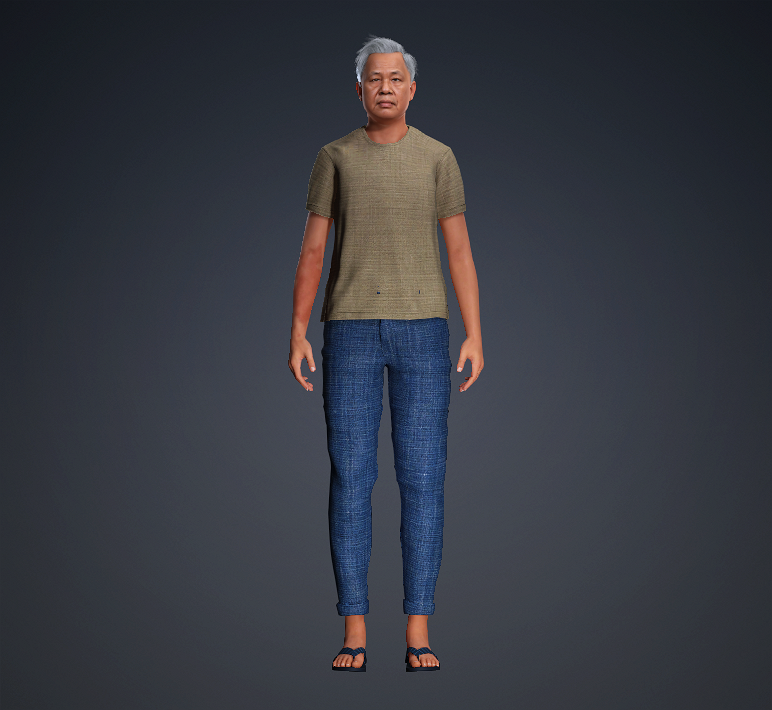
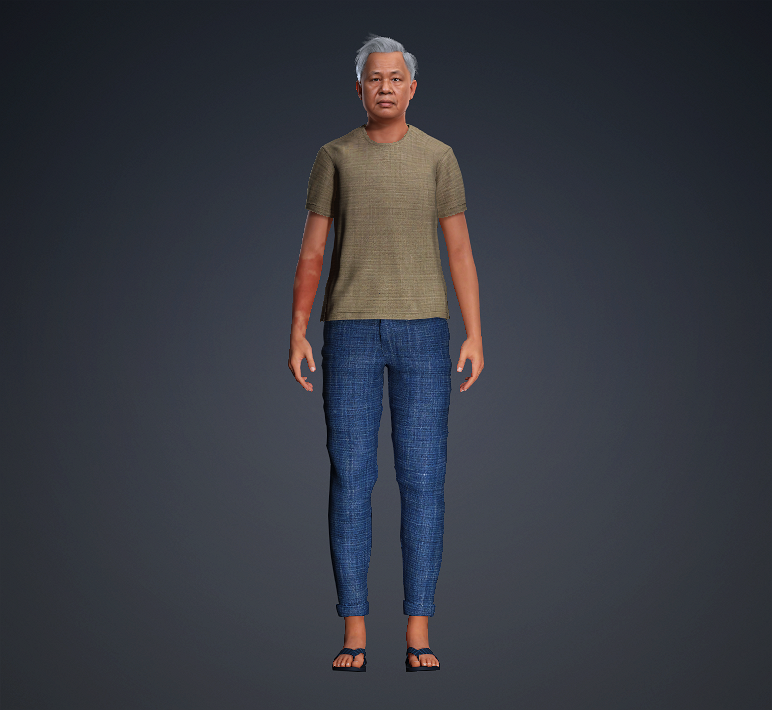
Layer fix pass 2: pull poking inner points under the outer garment; stronger scar overlay

Changed region(s): [[0.4352, 0.7437, 0.4663, 0.8676], [0.5285, 0.7746, 0.5596, 0.8676], [0.3731, 0.4338, 0.4041, 0.4648]]

diff --git a/blender/layer_fix_obj.py b/blender/layer_fix_obj.py
@@ -90,6 +90,53 @@ for _ in range(6):  # spread the push so the hem stays smooth; never pull a push
             new.append(dv)
     disp = new
 
+# second pass, seen from the INNER garment: small parts (belt loops, fly, folds) that stick out between the outer
+# garment's vertices still show through -> pull those INNER points back under the outer garment (hidden there, so
+# the outer garment stays smooth). Written to <out>_inner.obj; cc5\layer_fix.py replaces the inner mesh with it.
+np_ = [ov[i] + disp[i] for i in range(len(ov))]
+obvh = BVHTree.FromPolygons(np_, of)
+idisp = [Vector() for _ in iv]
+under = [False] * len(iv)
+pokes = 0
+for k, q in enumerate(iv):
+    d = Vector((q.x - cx, q.y - cy, 0.0))
+    if d.length < 1e-6:
+        continue
+    d.normalize()
+    inside = obvh.ray_cast(q - d * reach, d, reach * 2)  # first outer surface along the line, from the centre side
+    out_hit = obvh.ray_cast(q + d * 0.01, d, reach)
+    back = obvh.ray_cast(q, -d, reach)
+    under[k] = out_hit[0] is not None or back[0] is not None
+    if out_hit[0] is None and back[0] is not None:  # outer garment is inside this point: it pokes through
+        idisp[k] = (back[0] - d * offset) - q
+        pokes += 1
+inbr = [set() for _ in iv]
+for f in ifc:
+    for k in range(len(f)):
+        x, y = f[k], f[(k + 1) % len(f)]
+        inbr[x].add(y); inbr[y].add(x)
+for _ in range(3):  # soften around the pulled points, only where the outer garment covers it
+    new = []
+    for i, dv in enumerate(idisp):
+        if under[i] and inbr[i]:
+            avg = sum((idisp[j] for j in inbr[i]), Vector()) / len(inbr[i])
+            new.append(dv if dv.length >= avg.length else dv * 0.5 + avg * 0.5)
+        else:
+            new.append(dv)
+    idisp = new
+print("POKES", pokes)
+if pokes:
+    vi = 0
+    with open(out[:-4] + "_inner.obj", "w", encoding="utf-8") as w:
+        for line in open(inner_posed, encoding="utf-8", errors="ignore"):
+            if line.startswith("v "):
+                p = iv[vi] + idisp[vi]
+                rest = line.split()[4:]
+                w.write("v %.6f %.6f %.6f%s\n" % (p.x, p.y, p.z, (" " + " ".join(rest)) if rest else ""))
+                vi += 1
+            else:
+                w.write(line)
+
 vi = 0
 with open(out, "w", encoding="utf-8") as w:
     for line in open(outer_posed, encoding="utf-8", errors="ignore"):

diff --git a/cc5/layer_fix.py b/cc5/layer_fix.py
@@ -21,7 +21,7 @@ def fix(av, d, mode, log):
     work = os.path.join(d, "layer_fix")
     os.makedirs(work, exist_ok=True)
     f = {k: os.path.join(work, k + ".obj") for k in ("outer", "inner", "fixed")}
-    for p in f.values():
+    for p in list(f.values()) + [f["fixed"][:-4] + "_inner.obj"]:
         if os.path.exists(p):
             os.remove(p)
     RLPy.RFileIO.ExportObjFile(clothes[outer], f["outer"], RLPy.EExport3DFileOption__None)
@@ -29,11 +29,13 @@ def fix(av, d, mode, log):
     t = time.time()
     r = subprocess.run([kit.BLENDER, "-b", "--python", os.path.join(kit.REPO, "blender", "layer_fix_obj.py"), "--",
                         f["outer"], f["inner"], f["fixed"]], capture_output=True, text=True, timeout=900)
-    log += [l for l in r.stdout.splitlines() if l.startswith(("MOVED", "WROTE"))]
+    log += [l for l in r.stdout.splitlines() if l.startswith(("MOVED", "WROTE", "POKES"))]
     log.append("blender %.0fs rc=%s" % (time.time() - t, r.returncode))
     if not os.path.exists(f["fixed"]):
         raise RuntimeError("blender failed:\n" + r.stdout[-1500:] + r.stderr[-1500:])
     clothes[outer].GetMeshes()[0].ReplaceMesh(f["fixed"], RLPy.EReplaceMeshOption_ZUp, False)
+    if os.path.exists(f["fixed"][:-4] + "_inner.obj"):  # inner bits that poked through, pulled under the outer
+        clothes[inner].GetMeshes()[0].ReplaceMesh(f["fixed"][:-4] + "_inner.obj", RLPy.EReplaceMeshOption_ZUp, False)
 
 
 def main(mode):

diff --git a/tools/scar_overlay.py b/tools/scar_overlay.py
@@ -24,12 +24,12 @@ mask = np.clip(edge * 4, 0, 1)
 mask = np.asarray(Image.fromarray((mask * 255).astype(np.uint8)).filter(ImageFilter.GaussianBlur(3))).astype(np.float32) / 255
 rim = np.clip(1 - np.abs(edge) * 3.5, 0, 1) * (edge > -0.15)
 mott = noise(56) * 0.75 + noise(14) * 0.25
-pink = np.array([196, 120, 112], np.float32)   # multiply-friendly tones (white = no change)
-pale = np.array([236, 196, 186], np.float32)
-dark = np.array([150, 92, 84], np.float32)
+pink = np.array([170, 82, 72], np.float32)   # strong enough to read at full-body distance
+pale = np.array([222, 160, 148], np.float32)
+dark = np.array([110, 52, 44], np.float32)
 scar = pink * (1 - mott[..., None]) + pale * mott[..., None]
 scar = scar * (1 - 0.6 * rim[..., None]) + dark * 0.6 * rim[..., None]
 rgb = 255 * (1 - mask[..., None]) + scar * mask[..., None]
-rgba = np.dstack([rgb, mask * 235]).clip(0, 255).astype(np.uint8)
+rgba = np.dstack([rgb, mask * 255]).clip(0, 255).astype(np.uint8)
 Image.fromarray(rgba, "RGBA").save(out)
 print("saved", out)

diff --git a/docs/APP.md b/docs/APP.md
@@ -56,7 +56,7 @@
 ## ทดลองจริง 2026-10-19: ลุงบุญมี วัย 65 แผลไฟไหม้ที่แขน
 ผ่านครบทุกสเต็ป: ลายผ้า AI → หน้า → สร้างตัว → แผล → iAvatar (Export อัตโนมัติ, ไฟล์ 161 MB) ใช้เวลาราว 19 นาที
 - แผลวิธีแรกที่ export ตัวพร้อมเท็กเจอร์ทำ CC5 แครช เลยเปลี่ยนมาใช้ภาพแผลซ้อนในช่อง DiffuseBlend ของผิว (`tools/scar_overlay.py`) วิธีนี้ใช้ได้กับทุกสีผิว
-- ชายเสื้อมีจุดดำเล็ก 2 จุดที่เกิดจากการแก้เสื้อทะลุกางเกง (ยังไม่ได้แก้)
+- จุดดำที่ชายเสื้อคือหูเข็มขัด/ซิปกางเกงที่โผล่ระหว่างจุดของเสื้อ แก้แล้ว: ดึงจุดกางเกงที่โผล่เข้าไปซ่อนใต้เสื้อ (`blender/layer_fix_obj.py` ขั้นที่สอง, `POKES` ใน result.txt)
 
 ## ยังไม่ได้ทดสอบกับ CC5 จริง
 - **แผลที่หน้าและขา:** ตำแหน่งแผลยังเป็นการกะเอา (แผลที่แขนลองจริงแล้ว)
